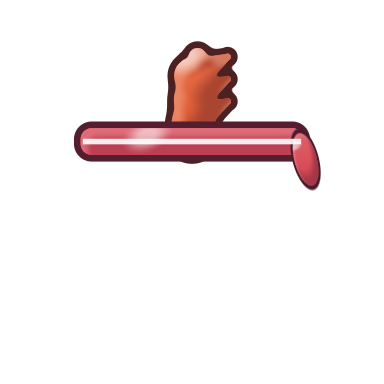
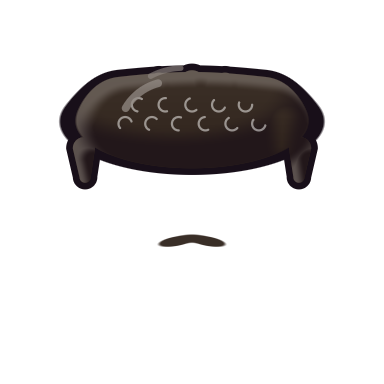
Tête Challenger à l'effigie du créateur, en costume croisé
- Cheveux courts bouclés (HairStyle.Curls), fine moustache (Accessory.ThinMustache), peau hâlée, grand sourire
- Tenue par tête (HeadDef.Outfit) : costume croisé bleu marine à fines rayures, revers pointus, six boutons,
  pochette, chemise blanche col ouvert, pantalon assorti, chaussures de ville (MascotArtist.BuildSuit)
- Images du corps par clé « peau » ou « peau_suit » (HeadDef.BodyKey) ; ArtPack régénéré, ArtVersion 15

Claude-Session: https://claude.ai/code/session_01GjF5pVKpWLsxsJrgQmasFX

Changed region(s): [[0.1562, 0.0938, 0.8438, 0.5], [0.4062, 0.5938, 0.5938, 0.6562]]

diff --git a/Assets/Bascule/Scripts/Core/MascotArt.cs b/Assets/Bascule/Scripts/Core/MascotArt.cs
@@ -72,6 +72,17 @@ namespace Bascule.Core
         static readonly Toon.Style Body = new Toon.Style { Outline = 0.03f, Shade = 0.18f, Soft = 0.14f, ShadeStrength = 0.8f, Rim = 0.04f, RimOpacity = 0.45f, Specular = false };
         static readonly Toon.Style Limb = new Toon.Style { Outline = 0.06f, Shade = 0.3f, Soft = 0.25f, ShadeStrength = 0.8f, Rim = 0.08f, RimOpacity = 0.4f, Specular = false };
 
+        /// <summary>
+        /// Corps pour une clé « peau » ou « peau_suit » (HeadDef.BodyKey) : débardeur de Basile ou costume croisé.
+        /// </summary>
+        public static Dictionary<string, Part> Build(string bodyKey)
+        {
+            bool suit = bodyKey.EndsWith("_suit", StringComparison.OrdinalIgnoreCase);
+            int cut = bodyKey.IndexOf('_');
+            var skin = Rgba.FromHex(cut >= 0 ? bodyKey.Substring(0, cut) : bodyKey);
+            return suit ? BuildSuit(skin) : Build(skin);
+        }
+
         public static Dictionary<string, Part> Build(Rgba skin)
         {
             return new Dictionary<string, Part>
@@ -239,6 +250,167 @@ namespace Bascule.Core
             for (int i = 0; i < 3; i++)
                 img.FillClipped(upper, Shape.Capsule(cx - 0.1f * u + i * 0.07f * u, cy + 0.12f * u - i * 0.05f * u, cx + 0.02f * u + i * 0.07f * u, cy + 0.14f * u - i * 0.05f * u, 0.022f * u), Rgba.White, 1f);
             img.FillClipped(upper, Shape.Arc(cx + 0.18f * u, cy + 0.06f * u, 0.16f * u, 200f, 300f, 0.035f * u), Rgba.White.WithAlpha(0.9f), 1f);
+            part.PivotX = cx - 0.08f * u; part.PivotY = cy + 0.1f * u;
+            return part;
+        }
+
+        // ================================================================== Costume croisé (tête Challenger)
+
+        public static readonly Rgba Navy = Rgba.FromHex("#1F2645");
+        static readonly Rgba Pinstripe = Rgba.FromHex("#B7C1EE").WithAlpha(0.34f);
+        static readonly Rgba Shirt = Rgba.FromHex("#F8F7F2");
+        static readonly Rgba DressShoe = Rgba.FromHex("#1C1B22");
+        static readonly Rgba ButtonColor = Rgba.FromHex("#10131F");
+        const float StripeGap = 0.085f;
+
+        /// <summary>
+        /// Costume croisé bleu marine à fines rayures, chemise blanche col ouvert, pantalon assorti, chaussures de ville
+        /// noires. Mêmes tailles et mêmes pivots que le corps de Basile : le squelette ne change pas.
+        /// </summary>
+        public static Dictionary<string, Part> BuildSuit(Rgba skin)
+        {
+            return new Dictionary<string, Part>
+            {
+                ["torso"] = SuitTorso(skin),
+                ["shorts"] = SuitHips(),
+                ["thigh"] = Segment(MascotRig.Thigh, 0.3f, 0.25f, Navy, (img, limb, ax, bx) => Stripes(img, limb, true), 0),
+                ["shin"] = Segment(MascotRig.Shin, 0.25f, 0.21f, Navy, (img, limb, ax, bx) => Stripes(img, limb, true), 0),
+                ["upperArm"] = Segment(MascotRig.UpperArm, 0.26f, 0.2f, Navy, (img, limb, ax, bx) => Stripes(img, limb, true), 0),
+                ["forearm"] = SuitForearm(),
+                ["hand"] = Hand(skin),
+                ["shoe"] = DressShoes(),
+                ["cushion"] = Cushion(),
+            };
+        }
+
+        /// <summary>Fines rayures claires : verticales sur le buste, dans la longueur sur les membres (dessinés à l'horizontale).</summary>
+        static void Stripes(Raster img, Shape clip, bool alongX)
+        {
+            float u = U, gap = StripeGap * u;
+            int n = (int)Math.Ceiling((alongX ? img.Height : img.Width) / gap) + 1;
+            for (int i = 0; i < n; i++)
+            {
+                float p = i * gap + gap * 0.5f;
+                var line = alongX ? Shape.Box(img.Width * 0.5f, p, img.Width, 0.0075f * u) : Shape.Box(p, img.Height * 0.5f, 0.0075f * u, img.Height);
+                img.FillClipped(clip, line, Pinstripe, 1f);
+            }
+        }
+
+        static Part SuitTorso(Rgba skin)
+        {
+            var part = Canvas(2.3f, 2.2f, out var img, out float cx, out float cy);
+            float u = U;
+
+            // Cou (peau).
+            Toon.Part(img, Shape.Tapered(cx, cy + 0.5f * u, 0.26f * u, cx, cy + 0.95f * u, 0.24f * u), skin, u, Body);
+            img.Fill(Shape.Ellipse(cx, cy + 0.82f * u, 0.3f * u, 0.12f * u), skin.Shadow(0.7f).WithAlpha(0.6f), 0.08f * u);
+
+            // Chemise blanche, col ouvert : on voit un peu de peau en V sous le cou.
+            var shirt = Shape.Poly(cx - 0.34f * u, cy + 0.7f * u, cx + 0.34f * u, cy + 0.7f * u, cx + 0.12f * u, cy - 0.3f * u, cx - 0.12f * u, cy - 0.3f * u);
+            Toon.Part(img, shirt, Shirt, u, Body);
+            var skinV = Shape.Poly(cx - 0.13f * u, cy + 0.72f * u, cx + 0.13f * u, cy + 0.72f * u, cx, cy + 0.36f * u).Grow(0.02f * u);
+            img.FillClipped(shirt, skinV, skin, 1.5f);
+            img.FillClipped(shirt, Shape.Capsule(cx, cy + 0.36f * u, cx, cy - 0.3f * u, 0.012f * u), Shirt.Shade(0.8f), 1f); // patte de boutonnage
+            // Pointes du col, posées sur le revers.
+            for (int sgn = -1; sgn <= 1; sgn += 2)
+            {
+                var collar = Shape.Poly(cx + sgn * 0.13f * u, cy + 0.74f * u, cx + sgn * 0.34f * u, cy + 0.66f * u, cx + sgn * 0.24f * u, cy + 0.42f * u, cx + sgn * 0.06f * u, cy + 0.5f * u).Grow(0.02f * u);
+                Toon.Part(img, collar, Shirt, 0.5f * u, new Toon.Style { Outline = 0.05f, Shade = 0.18f, Soft = 0.2f, Rim = 0f, Specular = false });
+            }
+
+            // Veste : épaules carrées (épaulettes), buste, bas de veste qui couvre la taille.
+            var shoulders = Shape.Smooth(
+                Shape.Smooth(Shape.Circle(cx - 0.8f * u, cy + 0.55f * u, 0.31f * u), Shape.Circle(cx + 0.8f * u, cy + 0.55f * u, 0.31f * u), 0.2f * u),
+                Shape.Poly(cx - 0.86f * u, cy + 0.7f * u, cx + 0.86f * u, cy + 0.7f * u, cx + 0.66f * u, cy + 0.05f * u, cx - 0.66f * u, cy + 0.05f * u).Grow(0.08f * u), 0.25f * u);
+            var body = Shape.Poly(cx - 0.68f * u, cy + 0.4f * u, cx + 0.68f * u, cy + 0.4f * u, cx + 0.66f * u, cy - 0.98f * u, cx - 0.66f * u, cy - 0.98f * u).Grow(0.06f * u);
+            var jacket = Shape.Smooth(shoulders, body, 0.2f * u);
+            // Ouverture en V jusqu'au boutonnage croisé.
+            var opening = Shape.Poly(cx - 0.36f * u, cy + 0.8f * u, cx + 0.36f * u, cy + 0.8f * u, cx + 0.03f * u, cy - 0.3f * u, cx - 0.03f * u, cy - 0.3f * u);
+            jacket = Shape.Subtract(jacket, opening);
+            Toon.Part(img, jacket, Navy, 2 * u, Body);
+            Stripes(img, jacket, false);
+
+            // Revers à cran pointu (« peak lapels »), un peu plus sombres, avec leur couture.
+            for (int sgn = -1; sgn <= 1; sgn += 2)
+            {
+                var lapel = Shape.Poly(
+                    cx + sgn * 0.36f * u, cy + 0.8f * u,
+                    cx + sgn * 0.52f * u, cy + 0.5f * u,
+                    cx + sgn * 0.62f * u, cy + 0.56f * u, // pointe du revers
+                    cx + sgn * 0.5f * u, cy + 0.32f * u,
+                    cx + sgn * 0.04f * u, cy - 0.32f * u,
+                    cx + sgn * 0.03f * u, cy - 0.3f * u);
+                var l = Shape.Intersect(lapel.Grow(0.01f * u), jacket.Grow(0.02f * u));
+                Toon.Part(img, l, Navy.Shade(0.86f), u, new Toon.Style { Outline = 0.03f, Shade = 0.12f, Soft = 0.2f, Rim = 0.05f, RimOpacity = 0.35f, Specular = false });
+                Stripes(img, l, false);
+            }
+
+            // Plis du tissu.
+            img.FillClipped(jacket, Shape.Arc(cx - 0.42f * u, cy - 0.1f * u, 0.32f * u, 200f, 300f, 0.022f * u), Navy.Outline().WithAlpha(0.5f), 2f);
+            img.FillClipped(jacket, Shape.Arc(cx + 0.42f * u, cy - 0.1f * u, 0.32f * u, 240f, 340f, 0.022f * u), Navy.Outline().WithAlpha(0.5f), 2f);
+
+            // Poche poitrine et pochette blanche (côté gauche du personnage, à droite de l'image).
+            float px = cx + 0.4f * u, py = cy + 0.05f * u;
+            img.FillClipped(jacket, Shape.Box(px, py, 0.14f * u, 0.014f * u, 0.005f * u, -6f), Navy.Outline().WithAlpha(0.8f), 1f);
+            Toon.Part(img, Shape.Poly(px - 0.1f * u, py + 0.02f * u, px - 0.02f * u, py + 0.11f * u, px + 0.04f * u, py + 0.04f * u, px + 0.1f * u, py + 0.1f * u, px + 0.12f * u, py + 0.02f * u),
+                Shirt, 0.3f * u, new Toon.Style { Outline = 0.06f, Shade = 0.12f, Soft = 0.2f, Rim = 0f, Specular = false });
+            // Poches basses à rabat.
+            for (int sgn = -1; sgn <= 1; sgn += 2)
+                img.FillClipped(jacket, Shape.Box(cx + sgn * 0.42f * u, cy - 0.66f * u, 0.17f * u, 0.016f * u, 0.006f * u), Navy.Outline().WithAlpha(0.75f), 1f);
+
+            // Six boutons du croisé (deux colonnes de trois).
+            for (int row = 0; row < 3; row++)
+                for (int sgn = -1; sgn <= 1; sgn += 2)
+                {
+                    float bx = cx + sgn * (0.2f - row * 0.015f) * u, by = cy - (0.34f + row * 0.19f) * u;
+                    Toon.Part(img, Shape.Circle(bx, by, 0.042f * u), ButtonColor, 0.12f * u,
+                        new Toon.Style { Outline = 0.08f, Shade = 0.2f, Soft = 0.2f, Rim = 0.1f, RimOpacity = 0.6f, Specular = true, SpecSize = 0.12f });
+                }
+            // Bord croisé : le pan droit passe sur le pan gauche.
+            img.FillClipped(jacket, Shape.Capsule(cx + 0.03f * u, cy - 0.3f * u, cx + 0.05f * u, cy - 0.98f * u, 0.014f * u), Navy.Outline().WithAlpha(0.85f), 1f);
+
+            part.PivotY = cy;
+            return part;
+        }
+
+        /// <summary>Haut du pantalon (à la place du short).</summary>
+        static Part SuitHips()
+        {
+            var part = Canvas(1.9f, 1.2f, out var img, out float cx, out float cy);
+            float u = U;
+            var waist = Shape.Box(cx, cy + 0.2f * u, 0.66f * u, 0.22f * u, 0.1f * u);
+            var legL = Shape.Box(cx - 0.36f * u, cy - 0.12f * u, 0.33f * u, 0.32f * u, 0.1f * u, -8f);
+            var legR = Shape.Box(cx + 0.36f * u, cy - 0.12f * u, 0.33f * u, 0.32f * u, 0.1f * u, 8f);
+            var trousers = Shape.Smooth(waist, Shape.Union(legL, legR), 0.15f * u);
+            Toon.Part(img, trousers, Navy, 1.4f * u, Body);
+            Stripes(img, trousers, false);
+            img.FillClipped(trousers, Shape.Capsule(cx, cy - 0.05f * u, cx, cy - 0.45f * u, 0.025f * u), Navy.Outline(), 2f);
+            part.PivotY = cy;
+            return part;
+        }
+
+        /// <summary>Manche de veste, poignet de chemise blanc qui dépasse.</summary>
+        static Part SuitForearm() =>
+            Segment(MascotRig.Forearm, 0.21f, 0.17f, Navy, (img, limb, ax, bx) =>
+            {
+                float u = U;
+                Stripes(img, limb, true);
+                float x0 = ax + (bx - ax) * 0.86f;
+                var cuff = Shape.Intersect(limb.Grow(0.01f * u), Shape.HalfPlane(-1, 0, -x0));
+                Toon.Part(img, cuff, Shirt, 0.4f * u, Limb);
+                img.FillClipped(cuff, Shape.Circle(x0 + 0.06f * u, 0.5f * img.Height - 0.05f * u, 0.022f * u), Rgba.FromHex("#C9CED8"), 1f); // bouton de manchette
+            }, 0);
+
+        /// <summary>Chaussures de ville noires, bout fin et brillant.</summary>
+        static Part DressShoes()
+        {
+            var part = Canvas(1.0f, 0.7f, out var img, out float cx, out float cy);
+            float u = U;
+            var sole = Shape.Box(cx + 0.05f * u, cy - 0.17f * u, 0.4f * u, 0.05f * u, 0.05f * u);
+            var upper = Shape.Smooth(Shape.Ellipse(cx + 0.12f * u, cy - 0.06f * u, 0.36f * u, 0.15f * u), Shape.Ellipse(cx - 0.1f * u, cy + 0.04f * u, 0.22f * u, 0.18f * u), 0.12f * u);
+            Toon.Part(img, upper, DressShoe, 0.8f * u, new Toon.Style { Outline = 0.05f, Shade = 0.2f, Soft = 0.18f, Rim = 0.08f, RimOpacity = 0.55f, Specular = true, SpecSize = 0.09f });
+            Toon.Part(img, sole, Rgba.FromHex("#3A2A20"), 0.8f * u, new Toon.Style { Outline = 0.05f, Shade = 0.1f, Soft = 0.1f, Rim = 0f, Specular = false });
+            img.FillClipped(upper, Shape.Arc(cx - 0.02f * u, cy + 0.02f * u, 0.14f * u, 300f, 420f, 0.012f * u), Rgba.White.WithAlpha(0.25f), 1f); // couture
             part.PivotX = cx - 0.08f * u; part.PivotY = cy + 0.1f * u;
             return part;
         }

diff --git a/Assets/Bascule/Scripts/Core/Art.cs b/Assets/Bascule/Scripts/Core/Art.cs
@@ -371,6 +371,31 @@ namespace Bascule.Core
                 case HairStyle.Curly:
                     Fringe(Shape.Union(Puff(cx, cy + 0.82f * r, 0.95f * r, 11, 0.24f * r), Shape.Ellipse(cx, cy + 0.8f * r, 0.95f * r, 0.36f * r)));
                     break;
+                case HairStyle.Curls:
+                {
+                    // Cheveux courts et bouclés : une calotte près du crâne, bordée de petites boucles serrées,
+                    // quelques boucles sur le front, côtés courts.
+                    var s = Cap(0.06f);
+                    for (int i = 0; i < 9; i++)
+                    {
+                        double a = (165 - i * 18.75) * Math.PI / 180;
+                        s = Shape.Union(s, Shape.Circle(cx + (float)Math.Cos(a) * 0.92f * r, cy + 0.78f * r + (float)Math.Sin(a) * 0.4f * r, 0.12f * r));
+                    }
+                    for (int i = 0; i < 4; i++)
+                        s = Shape.Union(s, Shape.Circle(cx - 0.36f * r + i * 0.24f * r, cy + 0.62f * r - (i == 1 || i == 2 ? 0.03f : 0f) * r, 0.1f * r));
+                    s = Shape.Union(s, Shape.Tapered(cx - 0.97f * r, cy + 0.6f * r, 0.1f * r, cx - 0.96f * r, cy + 0.34f * r, 0.05f * r));
+                    s = Shape.Union(s, Shape.Tapered(cx + 0.97f * r, cy + 0.6f * r, 0.1f * r, cx + 0.96f * r, cy + 0.34f * r, 0.05f * r));
+                    Fringe(s);
+                    // Petites boucles en reflets.
+                    var shine = hair.Light(2.2f).WithAlpha(0.5f);
+                    for (int row = 0; row < 2; row++)
+                        for (int i = 0; i < 6 - row; i++)
+                        {
+                            float x = cx - (0.6f - row * 0.12f) * r + i * 0.24f * r, y = cy + (0.82f + row * 0.17f) * r;
+                            img.FillClipped(s, Shape.Arc(x, y, 0.06f * r, 20f + row * 40f + i * 25f, 220f + row * 40f + i * 25f, 0.02f * r), shine, 1f);
+                        }
+                    break;
+                }
                 case HairStyle.Mohawk:
                 {
                     var s = Shape.Tapered(cx, cy + 0.72f * r, 0.2f * r, cx + 0.05f * r, cy + 1.42f * r, 0.08f * r);
@@ -451,6 +476,13 @@ namespace Bascule.Core
                 {
                     var m = Shape.Smooth(Shape.Ellipse(cx - 0.18f * r, cy - 0.24f * r, 0.22f * r, 0.1f * r, 12f), Shape.Ellipse(cx + 0.18f * r, cy - 0.24f * r, 0.22f * r, 0.1f * r, -12f), 0.05f * r);
                     Toon.Part(img, m, hair.Shade(0.85f), sz * 0.5f, acc);
+                    break;
+                }
+                case Accessory.ThinMustache:
+                {
+                    // Fine moustache bien taillée.
+                    var m = Shape.Smooth(Shape.Ellipse(cx - 0.14f * r, cy - 0.235f * r, 0.16f * r, 0.042f * r, 10f), Shape.Ellipse(cx + 0.14f * r, cy - 0.235f * r, 0.16f * r, 0.042f * r, -10f), 0.04f * r);
+                    img.Fill(m, hair.WithAlpha(0.9f), 0.012f * r);
                     break;
                 }
                 case Accessory.Bow:

diff --git a/Assets/Bascule/Scripts/Core/HeadCatalog.cs b/Assets/Bascule/Scripts/Core/HeadCatalog.cs
@@ -3,13 +3,18 @@ using System.Collections.Generic;
 
 namespace Bascule.Core
 {
-    public enum HairStyle { None, Short, Spiky, Curly, Bun, Mohawk, Long, Afro, Pigtails, Swoosh }
+    public enum HairStyle { None, Short, Spiky, Curly, Bun, Mohawk, Long, Afro, Pigtails, Swoosh, Curls }
+
+    /// <summary>Tenue du corps : le débardeur de Basile, ou le costume croisé (tête Challenger).</summary>
+    public enum Outfit { Tank, Suit }
 
     public enum Accessory
     {
         None, Glasses, Sunglasses, Cap, Beanie, Crown, Headband, Mustache, Freckles, Bow, Halo, Headphones, Antennas,
         // Boutique et têtes premium
         TopHat, Pirate, Viking, Chef, CatEars, Flower, PartyHat, Wizard, Astronaut, Unicorn, DevilHorns,
+        // 1.3
+        ThinMustache,
     }
 
     public enum UnlockKind
@@ -43,6 +48,10 @@ namespace Bascule.Core
         public Expression Expression;
         /// <summary>Têtes Premium : identifiant du produit qui les donne (Shop.Legends, Shop.Starter).</summary>
         public string Product;
+        /// <summary>Tenue du corps (débardeur par défaut).</summary>
+        public Outfit Outfit;
+        /// <summary>Clé des images du corps : la peau, plus la tenue si ce n'est pas le débardeur (« #E8B48C_suit »).</summary>
+        public string BodyKey => Outfit == Outfit.Suit ? Skin + "_suit" : Skin;
 
         public bool IsSpecial => Unlock != UnlockKind.Score && Unlock != UnlockKind.Default && Unlock != UnlockKind.Level && Unlock != UnlockKind.Shop && Unlock != UnlockKind.Premium;
         public string Name(string lang) => lang == "en" ? NameEn : NameFr;
@@ -292,7 +301,11 @@ namespace Bascule.Core
             list.Add(P(id++, "Ange", "Angel", Shop.Legends, S6, HairStyle.Swoosh, "#FFF1B8", Accessory.Halo, Expression.Sleepy));
             list.Add(P(id++, "Basile doré", "Golden Basile", Shop.Starter, "#FFD45A", HairStyle.Short, "#C8901E", Accessory.Sunglasses, Expression.Grin));
             // 1.3 : tête des duels (toujours ajouter à la fin : les identifiants sont sauvegardés).
-            list.Add(H(id++, "Challenger", "Challenger", UnlockKind.DuelWins, 15, S3, HairStyle.Mohawk, Red, Accessory.Headband, Expression.Smirk));
+            // Challenger : à l'effigie du créateur du jeu (boucles brunes, fine moustache, sourire en coin)
+            // et le seul personnage en costume croisé bleu marine à fines rayures.
+            var challenger = H(id++, "Challenger", "Challenger", UnlockKind.DuelWins, 15, "#D9A071", HairStyle.Curls, "#24170F", Accessory.ThinMustache, Expression.Grin);
+            challenger.Outfit = Outfit.Suit;
+            list.Add(challenger);
             return list;
         }
 

diff --git a/Assets/Bascule/Scripts/Core/ArtCatalog.cs b/Assets/Bascule/Scripts/Core/ArtCatalog.cs
@@ -125,7 +125,7 @@ namespace Bascule.Core
         public static IEnumerable<string> Skins()
         {
             var seen = new HashSet<string>(StringComparer.OrdinalIgnoreCase);
-            foreach (var h in HeadCatalog.All) if (seen.Add(h.Skin)) yield return h.Skin;
+            foreach (var h in HeadCatalog.All) if (seen.Add(h.BodyKey)) yield return h.BodyKey;
         }
 
         public static string MascotKey(string skinHex, string part) => "mascot_" + skinHex.TrimStart('#') + "_" + part;
@@ -135,7 +135,7 @@ namespace Bascule.Core
         {
             var jobs = new List<Job>();
             meta = new List<string>();
-            foreach (var kv in MascotArtist.Build(Rgba.FromHex(skinHex)))
+            foreach (var kv in MascotArtist.Build(skinHex))
             {
                 var p = kv.Value;
                 var img = p.Image;

diff --git a/Assets/Bascule/Scripts/Runtime/Game/ArtCache.cs b/Assets/Bascule/Scripts/Runtime/Game/ArtCache.cs
@@ -179,7 +179,7 @@ namespace Bascule
             catch (System.Exception) { parts = new Dictionary<string, Sprite>(); }
 
             var lines = new List<string>();
-            foreach (var kv in MascotArtist.Build(Rgba.FromHex(skinHex)))
+            foreach (var kv in MascotArtist.Build(skinHex))
             {
                 var p = kv.Value;
                 var pivot = new Vector2(p.PivotX / p.Image.Width, p.PivotY / p.Image.Height);
@@ -303,7 +303,7 @@ namespace Bascule
         /// <summary>
         /// À augmenter à chaque modification des dessins (Core/*Art*.cs) : les images en cache sont alors redessinées.
         /// </summary>
-        public const int ArtVersion = 14;
+        public const int ArtVersion = 15;
 
         static string _cacheDir;
 

diff --git a/Assets/Bascule/Scripts/Runtime/Game/MascotView.cs b/Assets/Bascule/Scripts/Runtime/Game/MascotView.cs
@@ -87,10 +87,10 @@ namespace Bascule
             _head = head;
             _headBack.sprite = _art.HeadBack(head);
             _headFront.sprite = _art.HeadFront(head);
-            if (_skin != head.Skin)
+            if (_skin != head.BodyKey)
             {
-                _skin = head.Skin;
-                var p = _art.MascotParts(head.Skin);
+                _skin = head.BodyKey; // peau + tenue
+                var p = _art.MascotParts(head.BodyKey);
                 _thighL.sprite = _thighR.sprite = p["thigh"];
                 _shinL.sprite = _shinR.sprite = p["shin"];
                 _shoeL.sprite = _shoeR.sprite = p["shoe"];

diff --git a/docs/VERSIONS.md b/docs/VERSIONS.md
@@ -10,6 +10,7 @@ Chaque zip porte son numéro (Bascule_V3.zip = version 3.0, affichée dans Régl
   - Compte à rebours 3-2-1 (Basile entre pendant « 3… 2… », le premier poids attend « Partez ! »), chrono, scores en direct, « {nom} penche à 88 % ! », « Rafale dans 0:08 · pour vous deux ».
   - La pression monte avec le temps (planche plus sensible dès 20 s, rafales communes dès 25 s, de plus en plus fortes) : un duel dure 1 à 3 minutes.
   - L'adversaire lâche : **K.O. !**, 3 s pour poser un dernier poids (anneau qui se vide), puis Basile lève les bras sous les confettis. Si c'est toi qui lâches, sa vue grandit au centre : tu le regardes tenir.
+  - **Tête Challenger** à l'effigie du créateur : cheveux courts bouclés, fine moustache, peau hâlée, et le seul personnage en **costume croisé** bleu marine à fines rayures (chemise blanche, pantalon assorti, chaussures de ville). Nouvelle notion de tenue (`HeadDef.Outfit`, `MascotArtist.BuildSuit`, clé de corps `peau_suit`). ArtPack régénéré, `ArtVersion` 15.
   - Résultat : victoire / défaite / égalité, temps tenus, scores, pièces (60 / 25 / 40), progression vers la **tête Challenger** (15 victoires), Revanche (les deux doivent accepter), Accueil.
   - Abandon (bouton ✕ en bas à gauche, ou quitter l'application) : défaite ; l'adversaire sans nouvelles pendant 8 s : victoire. Pas de pause en duel.
   - Le bouton Duel n'apparaît que si le paquet réseau est installé (plus aucun « Bientôt » dans le jeu).
